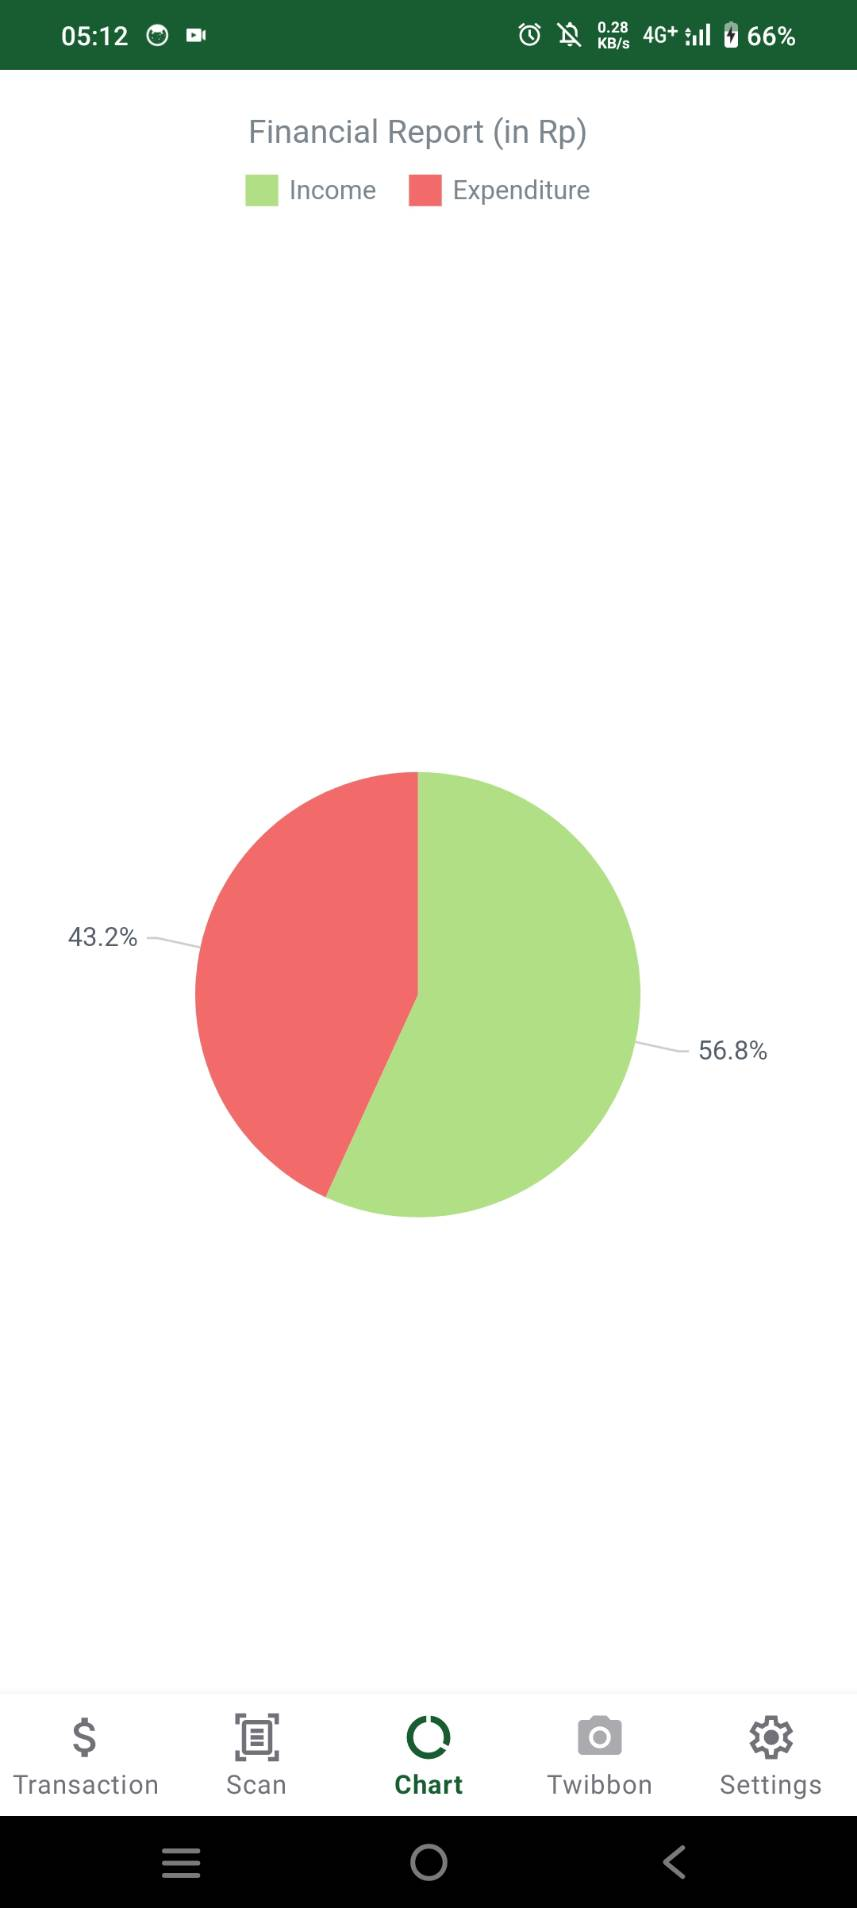
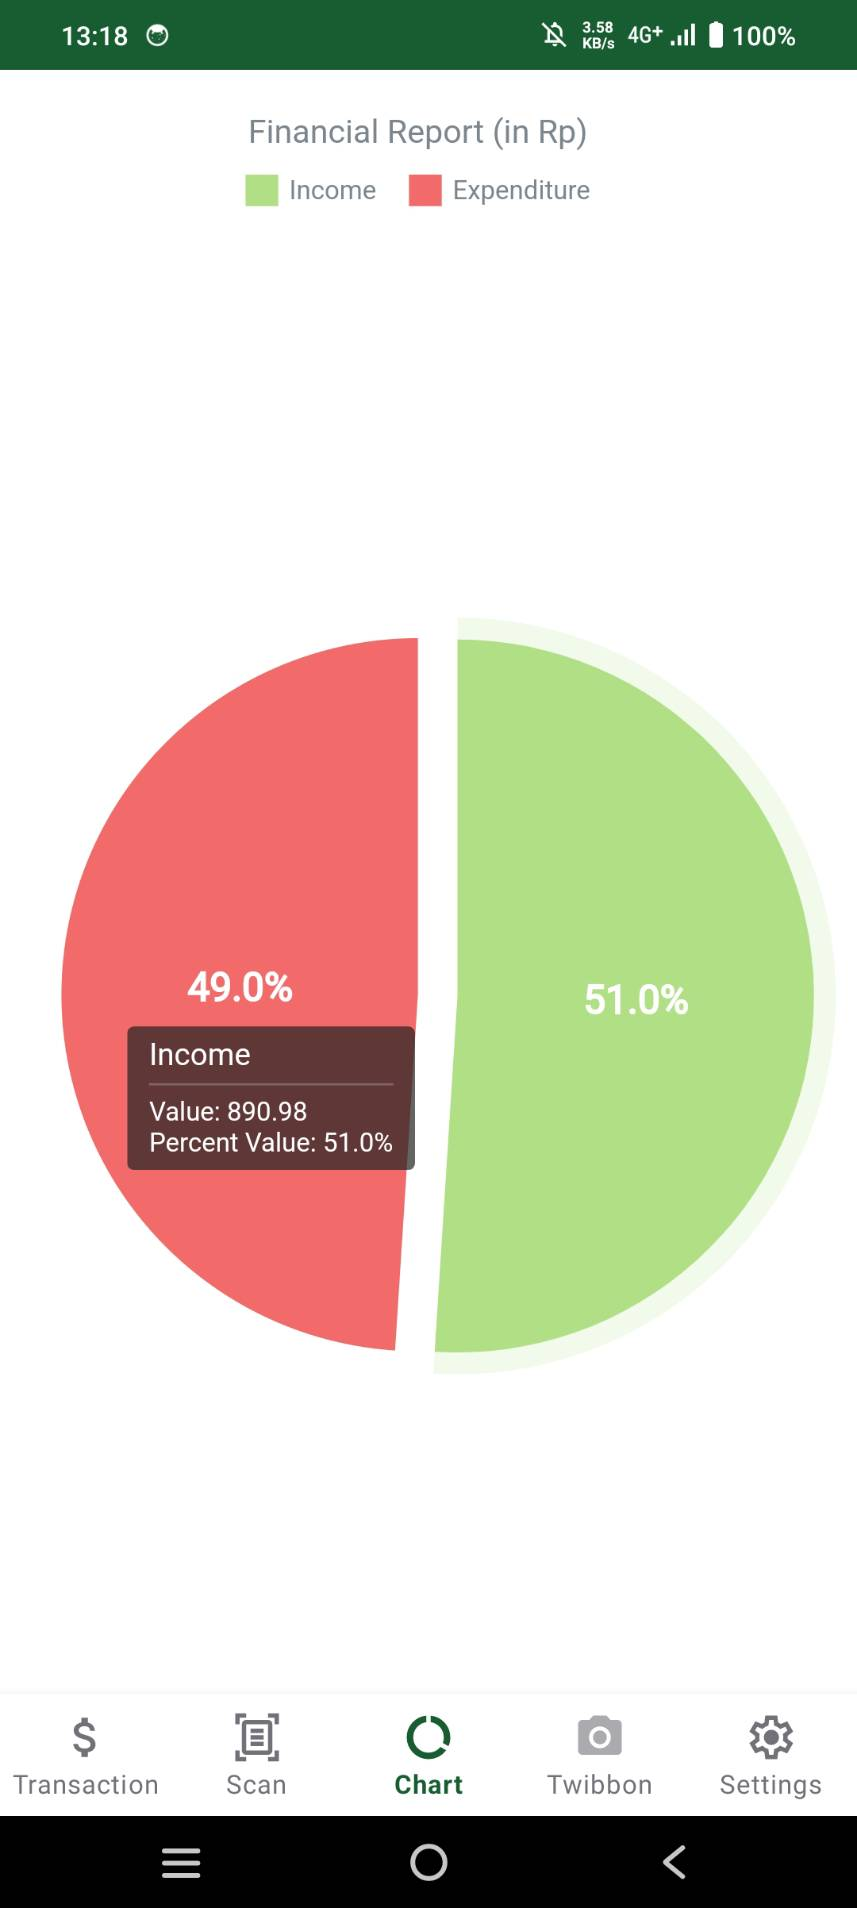
chore: change chart design

diff --git a/app/src/main/java/com/ath/bondoman/ui/chart/ChartFragment.kt b/app/src/main/java/com/ath/bondoman/ui/chart/ChartFragment.kt
@@ -47,7 +47,10 @@ class ChartFragment : Fragment() {
 
         val pie = AnyChart.pie()
 
-        pie.labels().position("outside")
+        pie.labels().position("inside")
+        pie.labels().fontWeight(500)
+        pie.labels().fontSize(18);
+        pie.labels().fontWeight(900);
         pie.palette(arrayOf("#b0df86", "#f26a6a"))
 
         pie.legend().title().enabled(true)

diff --git a/README.md b/README.md
@@ -1,6 +1,6 @@
 # BondoMan
 
-BondoMan is an **Android Based Application** for _money management_ built using Kotlin, RoomDB, and Hilt Dependency Injection. This application is built to fulfill Tugas Besar Android for Platform Based Development IF3210 2023/2024. This app's minimum SDK version is Android API Level 29, with compile target Android API Level 34.
+BondoMan is an **Android Based Application** for _money management_ built using Kotlin, RoomDB, CameraX, AnyChart and Hilt Dependency Injection. This application is built to fulfill Tugas Besar Android for Platform Based Development IF3210 2023/2024. This app's minimum SDK version is Android API Level 29, with compile target Android API Level 34.
 
 ## Features
 
